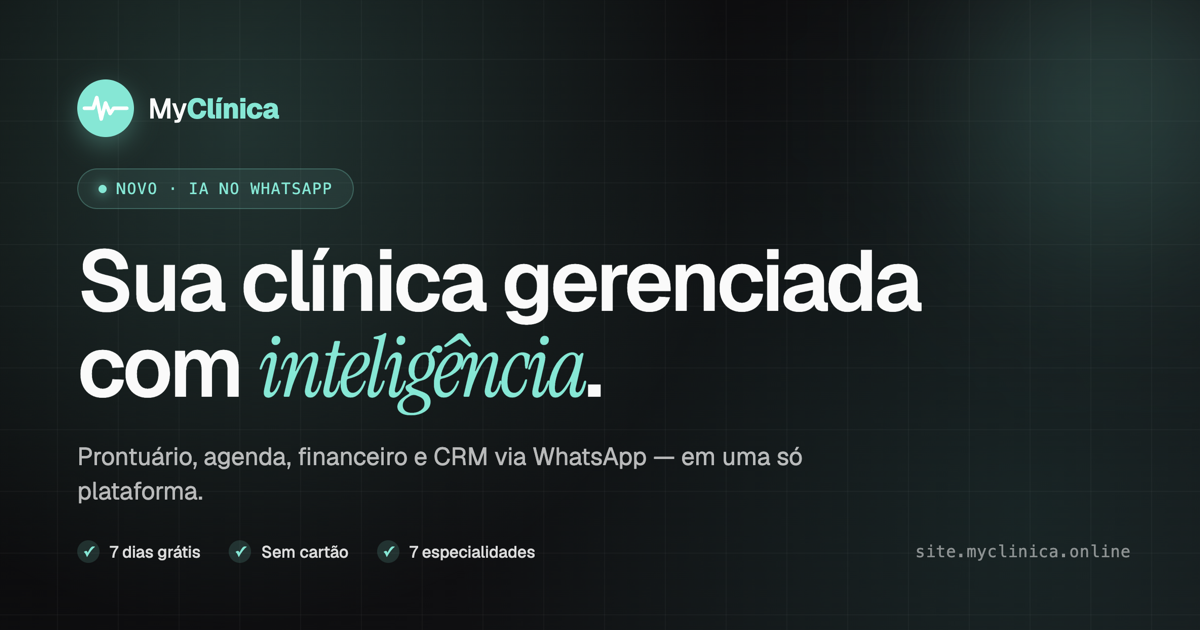
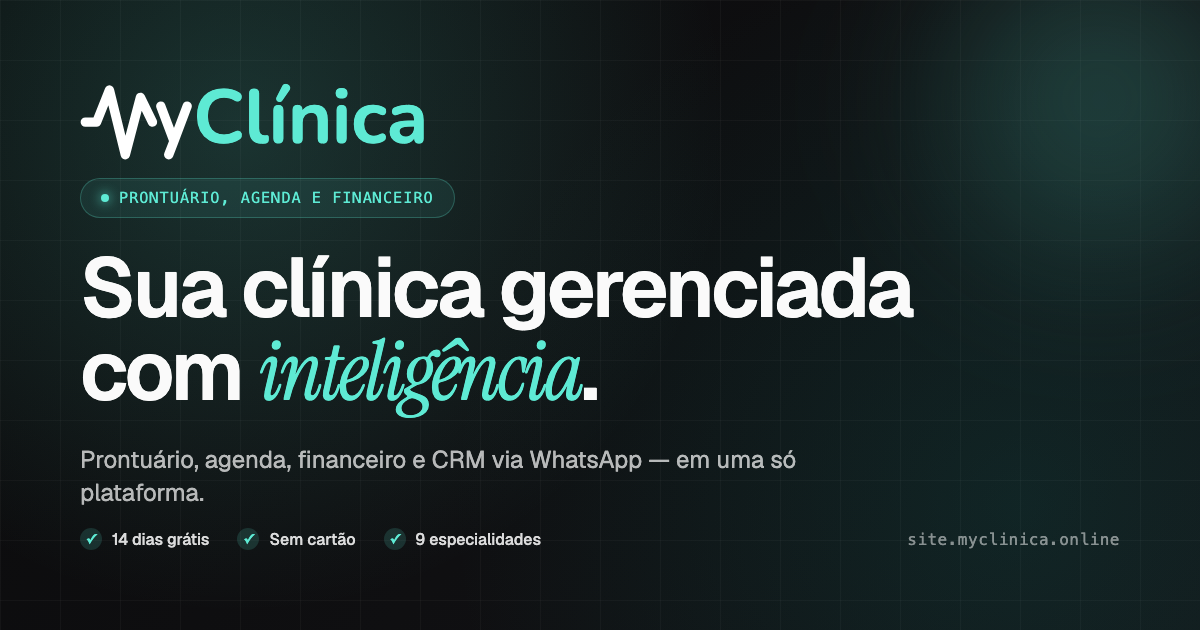
fix: link do plano Equipe para ?plan=equipe e imagem de compartilhamento com 14 dias

diff --git a/app/components/Plans.tsx b/app/components/Plans.tsx
@@ -35,7 +35,7 @@ interface Plano {
   name: string;
   slug: string;
   /** Valor aceito pelo parâmetro ?plan= do cadastro do app. */
-  appPlan: 'essencial' | 'completo' | 'ilimitado';
+  appPlan: 'essencial' | 'completo' | 'equipe';
   description: string;
   highlight: boolean;
   badge: string | null;
@@ -104,7 +104,7 @@ const plans: Plano[] = [
   {
     name: 'Equipe',
     slug: 'equipe',
-    appPlan: 'ilimitado',
+    appPlan: 'equipe',
     description: 'Para clínicas com equipe maior, de até 6 profissionais.',
     highlight: false,
     badge: null,

diff --git a/og-image-template.html b/og-image-template.html
@@ -205,7 +205,7 @@
   <div class="content">
     <div class="badge">
       <span class="dot"></span>
-      Novo · IA no WhatsApp
+      Prontuário, agenda e financeiro
     </div>
     <h1>
       Sua clínica gerenciada<br>
